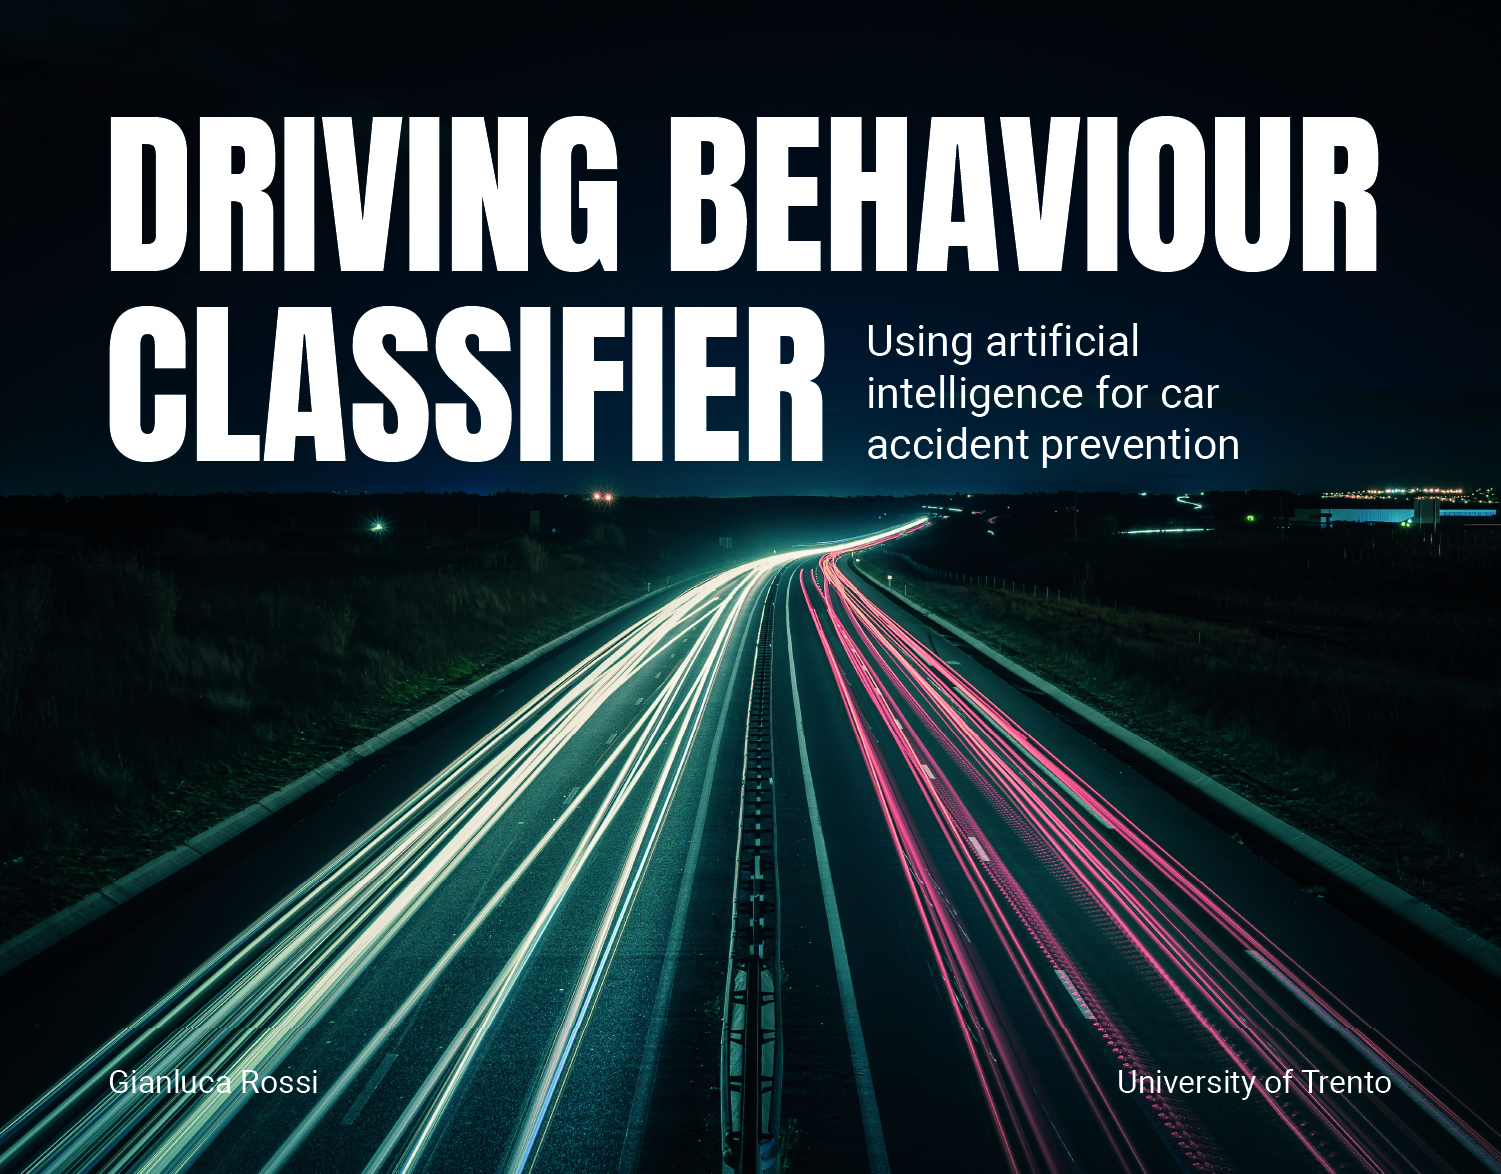
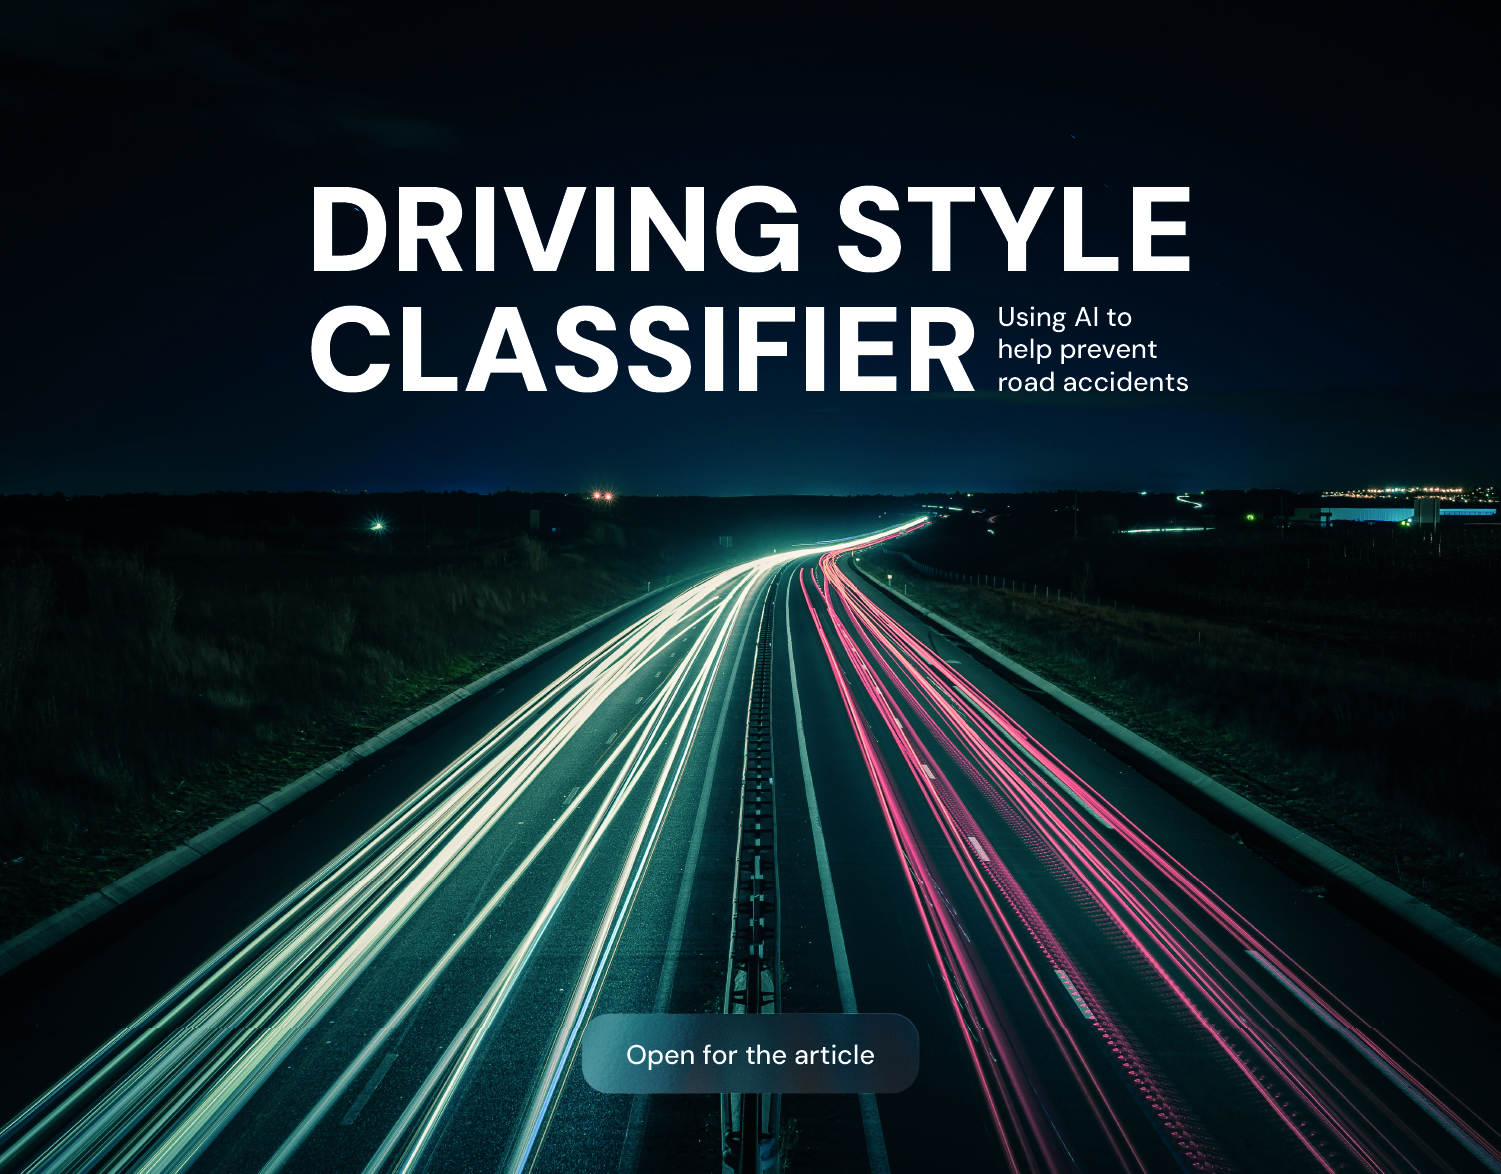
AI cover portfolio update

diff --git a/index.html b/index.html
@@ -340,7 +340,7 @@
 
               <div class="overlay"></div>
 
-              <p class="card-title">Driving Behaviour Classifier</p>
+              <p class="card-title">Driving Style Classifier</p>
 
             </a>
 
